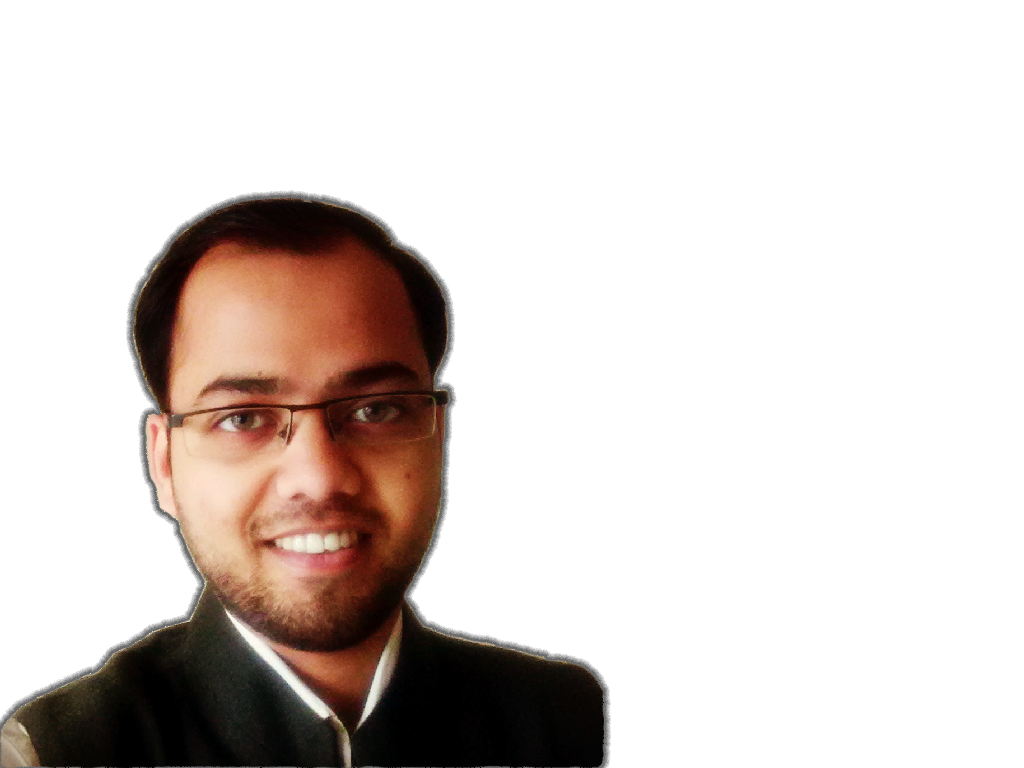
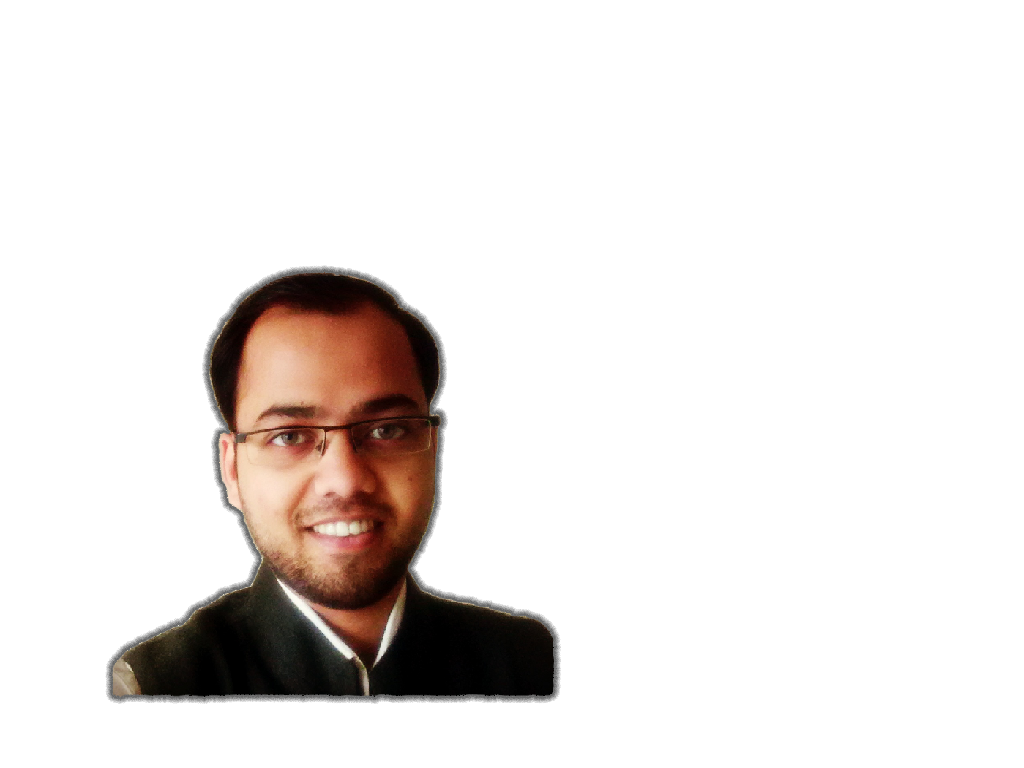
hjh

Changed region(s): [[0.0, 0.25, 0.5938, 1.0]]

diff --git a/style.css b/style.css
@@ -11,7 +11,7 @@ body {
 }
  
 .box {
-	height: 100%;
+	height: 90%;
     width: 60%;
     background-color:white;
     box-shadow: 0 4px 8px 0 rgba(0, 0, 0, 0.2), 0 6px 20px 0 rgba(0, 0, 0, 0.19);
